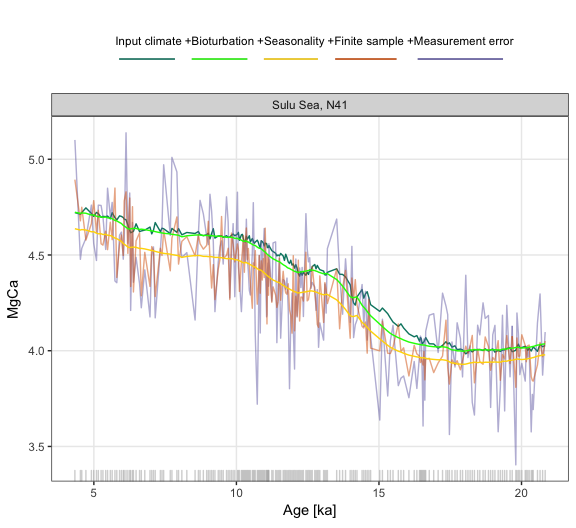
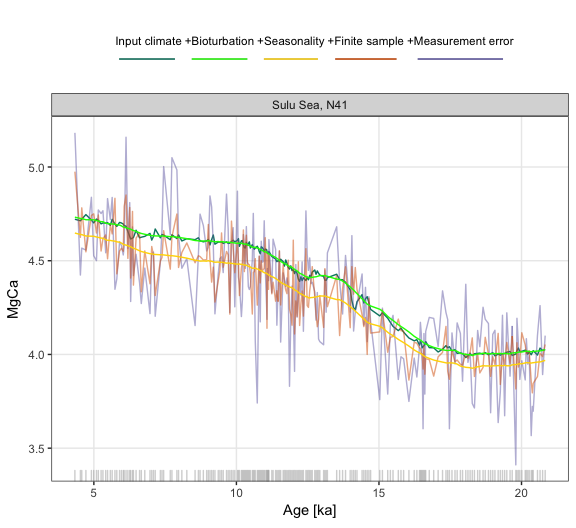
remove Tau shift

diff --git a/readme.md b/readme.md
@@ -126,14 +126,6 @@ PFM <- ClimToProxyClim(clim.signal = N41.t21k.climate[nrow(N41.t21k.climate):1,]
 ## Warning in FUN(X[[i]], ...): Window extends below end of clim.signal
 ```
 
-```
-## Warning in FUN(X[[i]], ...): Bioturbation window extends below end of
-## clim.signal
-
-## Warning in FUN(X[[i]], ...): Bioturbation window extends below end of
-## clim.signal
-```
-
 
 
 ```r
@@ -202,19 +194,19 @@ head(PFM$everything$proxy.bt.sb.sampYM.b.n)
 
 ```
 ##          [,1]     [,2]     [,3]     [,4]     [,5]     [,6]     [,7]
-## [1,] 28.59077 27.24216 27.85101 27.82210 28.74879 27.67043 28.23568
-## [2,] 27.38899 27.74220 27.17901 27.67571 28.97121 27.13761 26.69763
-## [3,] 28.61761 28.02140 27.98333 27.54683 27.49677 27.94618 27.71461
-## [4,] 27.67856 27.10352 28.39432 26.83184 27.48668 27.38606 28.26002
-## [5,] 27.50167 27.73817 27.50510 29.26476 27.52106 28.31881 28.45814
-## [6,] 27.83441 27.93680 26.63038 27.21916 28.40145 27.23655 27.37571
+## [1,] 28.77224 27.27768 27.85064 27.80305 28.83146 27.90226 28.38981
+## [2,] 27.54791 27.73085 27.18071 27.60643 29.13576 27.14187 26.83097
+## [3,] 28.59725 28.01880 27.93543 27.57537 27.49103 27.87617 27.89385
+## [4,] 27.75028 27.05753 28.42624 26.78402 27.41270 27.46369 28.34628
+## [5,] 27.57046 27.91697 27.62711 29.22819 27.53388 28.26389 28.41658
+## [6,] 27.78339 27.94766 26.55010 27.14859 28.38954 27.10322 27.42244
 ##          [,8]     [,9]    [,10]
-## [1,] 27.60570 28.44858 27.47944
-## [2,] 27.63600 28.05558 28.13290
-## [3,] 28.48741 27.18754 27.96795
-## [4,] 27.79744 27.76411 27.48290
-## [5,] 28.66557 28.20030 28.47205
-## [6,] 28.06648 28.03758 27.63359
+## [1,] 27.62744 28.57312 27.52222
+## [2,] 27.57654 27.87701 28.16931
+## [3,] 28.45120 27.23013 28.02501
+## [4,] 27.86683 27.67438 27.46507
+## [5,] 28.80644 27.98618 28.49377
+## [6,] 28.03139 28.15716 27.66520
 ```
 
 
@@ -237,14 +229,6 @@ PFM_2 <- ClimToProxyClim(clim.signal = N41.t21k.climate[nrow(N41.t21k.climate):1
 
 ```
 ## Warning in FUN(X[[i]], ...): Window extends below end of clim.signal
-```
-
-```
-## Warning in FUN(X[[i]], ...): Bioturbation window extends below end of
-## clim.signal
-
-## Warning in FUN(X[[i]], ...): Bioturbation window extends below end of
-## clim.signal
 ```
 
 
